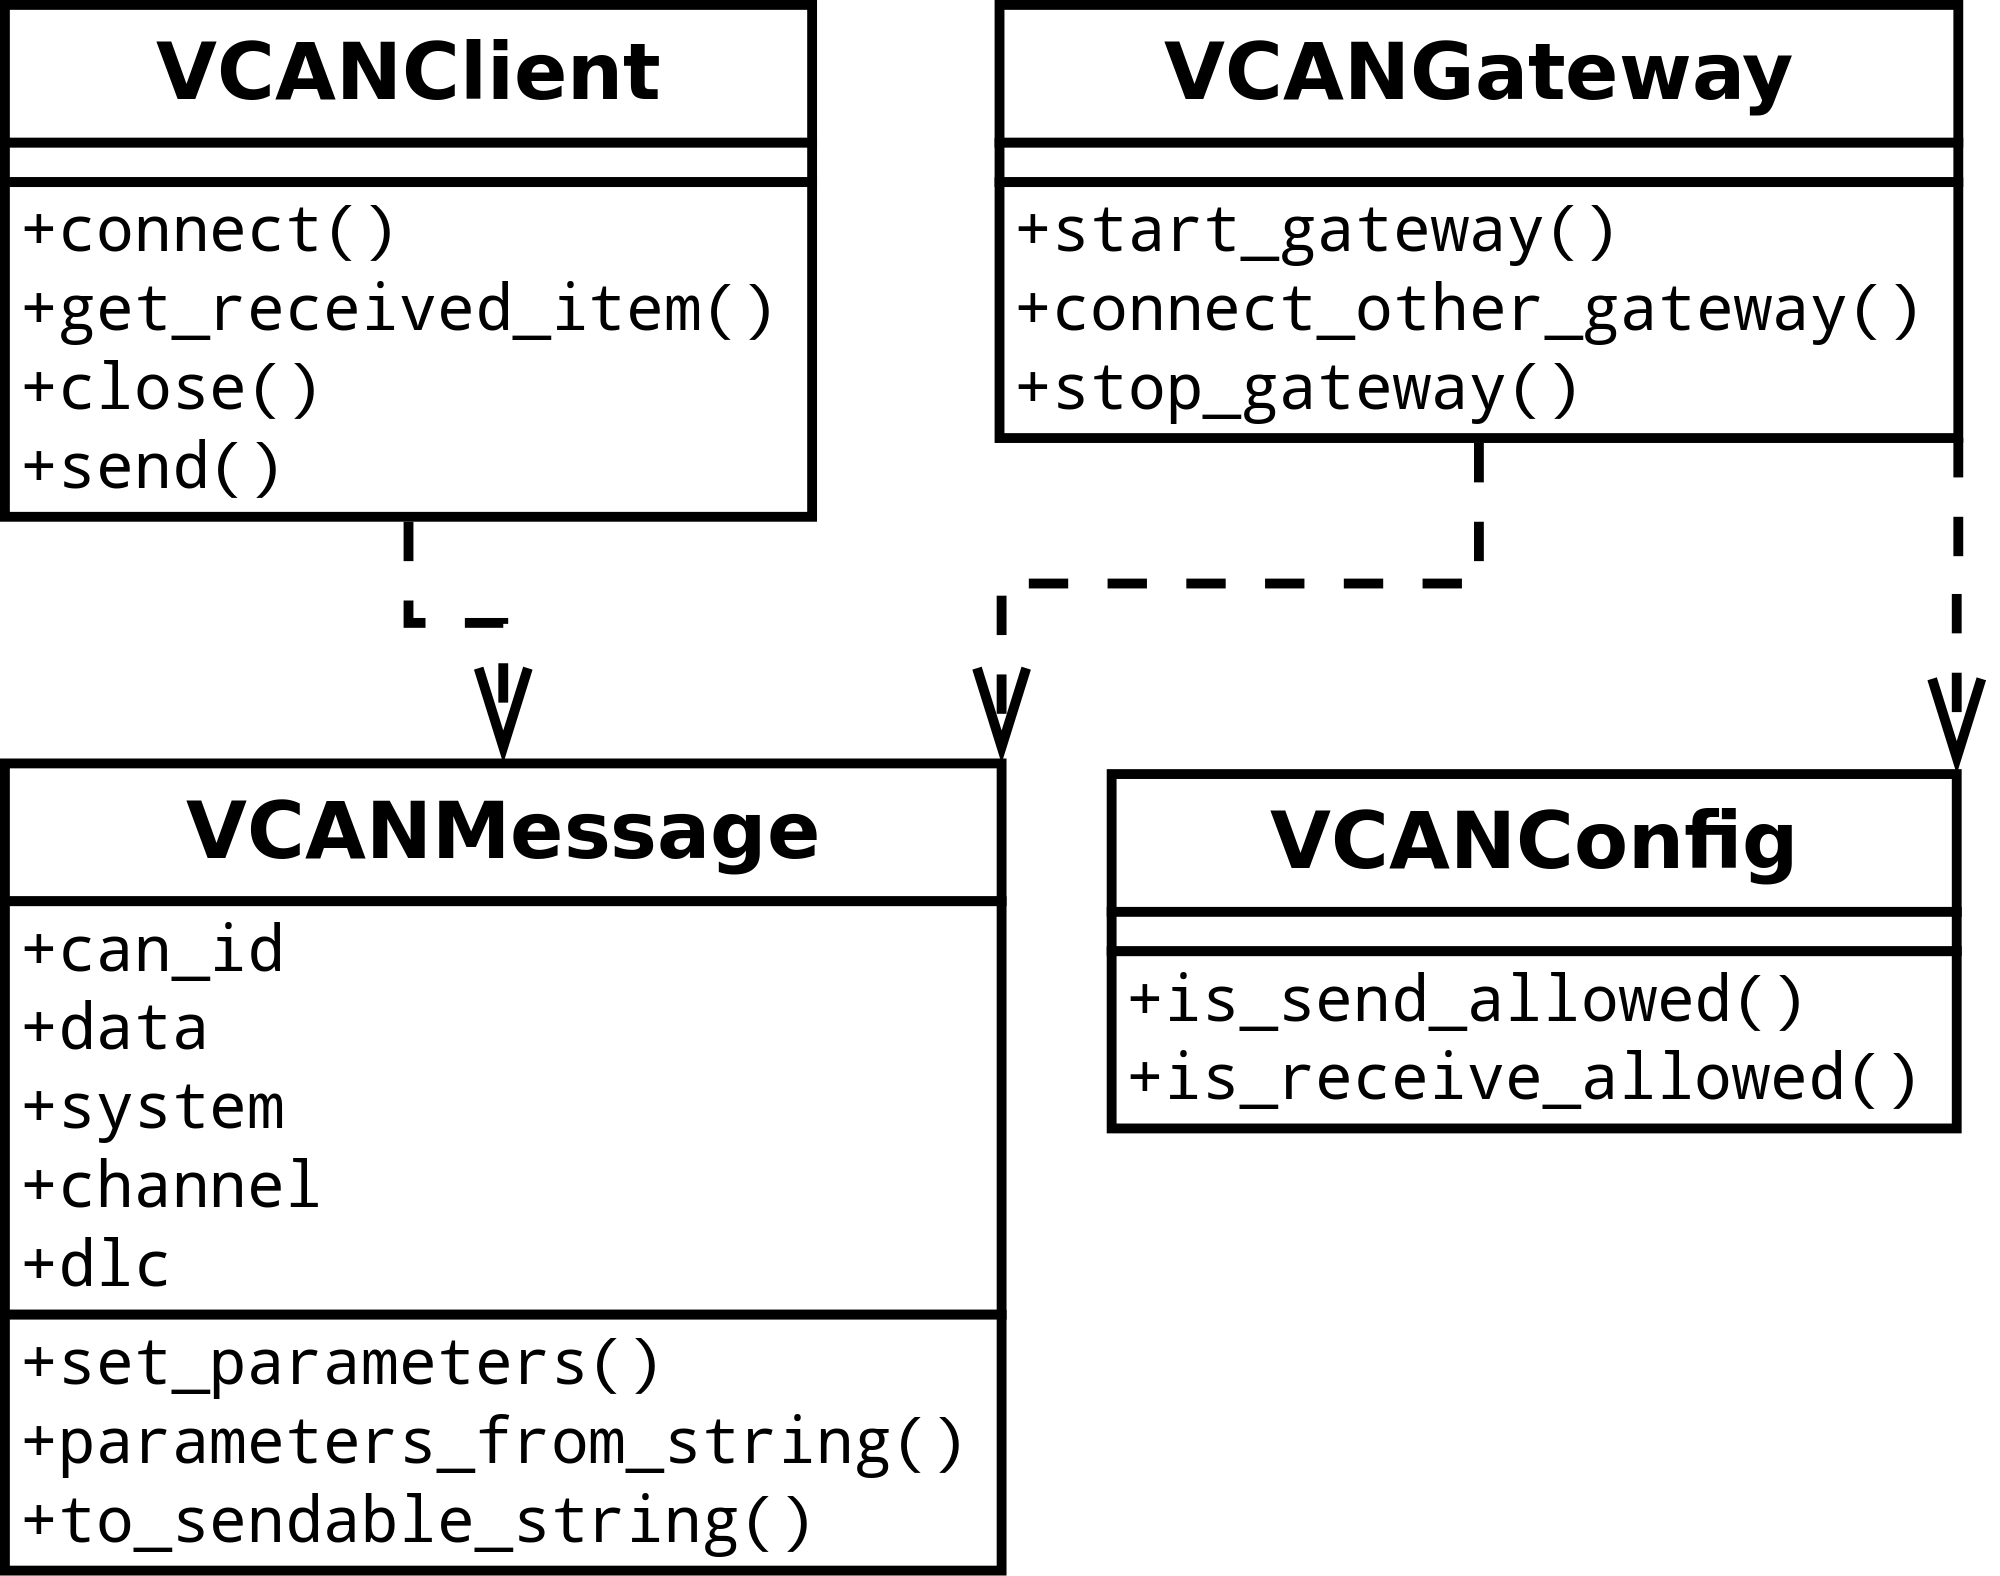
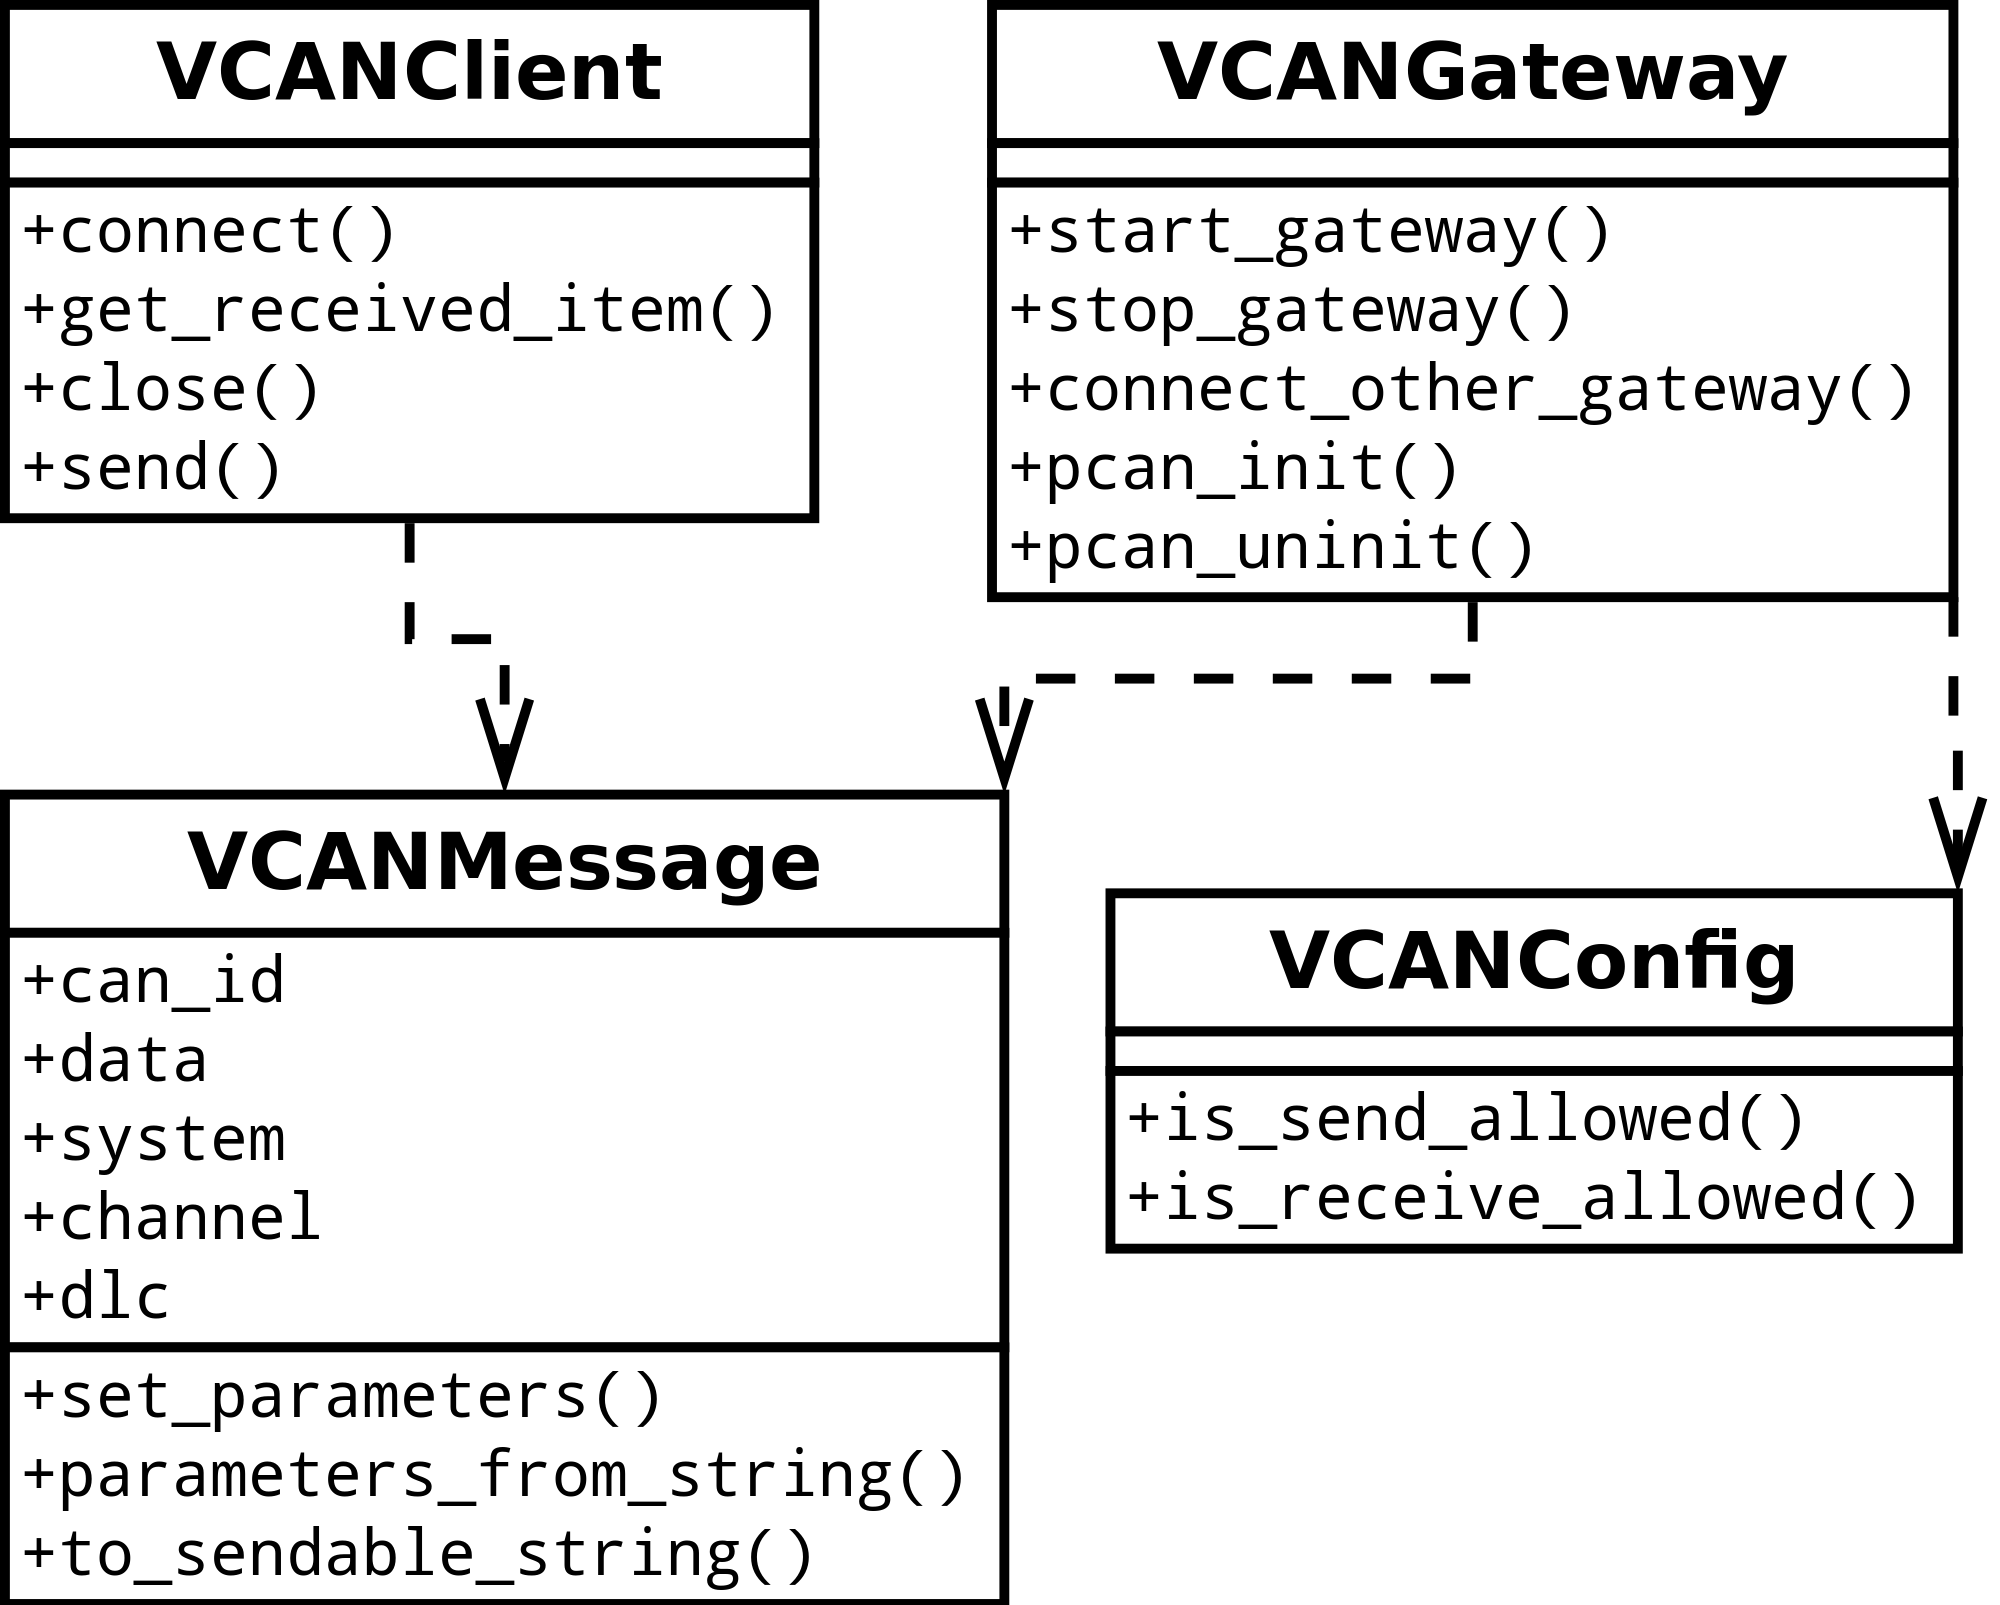
Various stuff

diff --git a/Master_Thesis/appendix.tex b/Master_Thesis/appendix.tex
@@ -209,7 +209,7 @@ Das VCAN-Protokoll besteht aus einem Binär-Format, dass per TCP-Socket übertra
 Das eigentliche Binär-Format des Protokolls ist in Abbildung \ref{fig:vcan_protokoll} zu sehen. Das Format besteht aus einem Header, dem DLC-Feld und den eigentlichen Daten. Der Header enthält unter anderem die ID der Botschaft. Die Nutzdaten können 1 bis 8 Byte lang sein. Im folgenden ist eine ausfürliche Auflistung der Felder dargestellt. Die Byte-Reheinfolge entspricht Big-Endian. Tabelle \ref{tab:vcanbotschaft} zeigt eine Beispiel-Botschaft ohne TCP- und Ethernet-Header.
 
 \begin{description}
-    \item[System] \hfill \\ Angabe eines Systems (zum Beispiel CAN oder LIN). Eine Auflistung der möglichen Werte ist in Tabelle \ref{tab:vcansysteme} zu finden. Die symbolischen Namen stammen dabei aus dem Elektrobit Gateway
+    \item[System] \hfill \\ Angabe eines Systems (zum Beispiel CAN oder LIN). Eine Auflistung der möglichen Werte ist in Tabelle \ref{tab:vcansysteme} zu finden. Die symbolischen Namen stammen dabei aus dem Elektrobit Gateway. Höhere Werte führen beim EB Gateway zu Fehlern beziehungsweise Abstürzen.
     \item[Channel] \hfill \\ Enthält eine Kanal-Nummer. Kann Werte von 0 bis 255 annehmen.
     \item[ID] \hfill \\ CAN-ID der Botschaft.
     \item[Marker] \hfill \\ Markiert extended CAN Frames. 0 steht für einen standard frame, jeder andere Wert für ein extendend Frame. Dies Byte könnte weitere Funktionalität bei LIN oder FlexRay Systemen haben.
@@ -218,55 +218,58 @@ Das eigentliche Binär-Format des Protokolls ist in Abbildung \ref{fig:vcan_prot
 \end{description}
 
 \begin{table}[ht]
-    \center
-    \begin{tabular}[h]{c l}
-        Hex Wert & Symbolischer Name \\
-        \toprule
-        0 & Unknown\\
-        1 & Flexray1\\
-        2 & Flexray2\\
-        3 & CAN1\\
-        4 & CAN2\\
-        5 & CAN3\\
-        6 & CAN4\\
-        7 & LIN1\\
-        8 & LIN2\\
-        9 & bad allocation\\
-        a & æI@\\
-        b & <null>\\
-        \bottomrule
-    \end{tabular}
-    \caption{Liste der VCAN Systeme}
-    \label{tab:vcansysteme}
-\end{table}
-
-\begin{table}[ht]
-    \center
-    \begin{tabular}[h]{c l}
-        Hex Wert & Bedeutung \\
-        \toprule
-        03 & System: CAN1\\
-        \midrule
-        00 & Channel: 0\\
-        \midrule
-        42 & \multirow{4}{*}{CAN-ID (hex): 742}\\
-        07 & \\
-        00 & \\
-        00 & \\
-        \midrule
-        00 & Standard Frame\\
-        \midrule
-        04 & \multirow{2}{*}{DLC: 4 Bytes}\\
-        00 & \\
-        \midrule
-        00 & \multirow{4}{*}{Daten: 00:00:2A:00}\\
-        00 & \\
-        2a & \\
-        00 & \\
-        \bottomrule
-    \end{tabular}
-    \caption{Beispiel VCAN Botschaft}
-    \label{tab:vcanbotschaft}
+    \centering
+    \begin{minipage}{0.45\textwidth}		
+        \begin{tabular}[h]{c l}
+            Hex Wert & Symbolischer Name \\
+            \toprule
+            0 & Unknown\\
+            1 & Flexray1\\
+            2 & Flexray2\\
+            3 & CAN1\\
+            4 & CAN2\\
+            5 & CAN3\\
+            6 & CAN4\\
+            7 & LIN1\\
+            8 & LIN2\\
+            9 & bad allocation\\
+            a & æI@\\
+            b & <null>\\
+            c & Fehler\\
+            d & Fehler\\
+            \dots & \dots\\
+            \bottomrule
+        \end{tabular}
+        \caption{Liste der VCAN Systeme}
+        \label{tab:vcansysteme}
+    \end{minipage}\hfill
+    \begin{minipage}{0.45\textwidth}
+        \begin{tabular}[h]{c l}
+            Hex Wert & Bedeutung \\
+            \toprule
+            03 & System: CAN1\\
+            \midrule
+            00 & Channel: 0\\
+            \midrule
+            42 & \multirow{4}{*}{CAN-ID (hex): 742}\\
+            07 & \\
+            00 & \\
+            00 & \\
+            \midrule
+            00 & Standard Frame\\
+            \midrule
+            04 & \multirow{2}{*}{DLC: 4 Bytes}\\
+            00 & \\
+            \midrule
+            00 & \multirow{4}{*}{Daten: 00:00:2A:00}\\
+            00 & \\
+            2a & \\
+            00 & \\
+            \bottomrule
+        \end{tabular}
+        \caption{Beispiel VCAN Botschaft}
+        \label{tab:vcanbotschaft}
+    \end{minipage}
 \end{table}
 
 Das Protokoll, wie es im Elektrobit-Gateway eingesetzt wird, hat einige Besonderheiten. So werden gelegentlich die Daten-Bytes mehrerer Botschaften angehängt. Hierbei wird der Header nur einmal, jedoch die Daten mehrerer Botschaften übermittelt. Auch wird zeitweise der Daten-Bereich einer Botschaft mehrfach angehängt. Das Verhalten konnte nicht zuverlässig nachvollzogen werden. Es hat jedoch den Anschein, dass diese Probleme durch eine hohe Netzwerk-Last beziehungsweise -Latenz hervorgerufen werden. Da nicht eindeutig eine Mehrfachsendung einer Botschaft von verschiedene Botschaften in einem Paket unterschieden werden kann, wurde dieses Verhalten nicht implementiert. 
@@ -405,11 +408,122 @@ Im folgenden wird die Dateistruktur des Projektes näher betrachtet. Abbildung \
 
 \section{Beispiel Anwendungen}
 \label{sec:vcan_beispiele}
+Im Folgenden sind einige Beispiel Anwendungen aufgeführt, die den VCAN nutzen. Da der Quellcode weitreichend selbsterklärend ist, wird auf eine Erläuterung der Beispiele verzichtet.
 
+\subsection{Gateway}
+\label{sec:vcan_gateway_beispiele}
+\begin{lstlisting}[frame=single, language=Python, basicstyle=\footnotesize, caption={Einfaches Gateway}, label={lst:bsp_gateway1}]
+import vcan_api
 
+gw = vcan_api.VCANGateway()
+gw.start_gateway(host='127.0.0.1', port=10020)
+raw_input("Press key to stop...\n")
+gw.stop_gateway()
+\end{lstlisting}
 
+\begin{lstlisting}[frame=single, language=Python, basicstyle=\footnotesize, caption={Gateway mit Callbacks}, label={lst:bsp_gateway2}]
+import vcan_api
 
+def __message_callback(message):
+  print message
 
+def __connection_callback(connection, accepting):
+  if accepting == True:
+    print "Connection accepted: " + str(connection)
+  else:
+    print "Connection closed: " + str(connection)
+
+gw = vcan_api.VCANGateway(receive_callback=__message_callback, connection_callback=__connection_callback)
+gw.start_gateway(host='127.0.0.1', port=10020)
+raw_input("Press key to stop...\n")
+gw.stop_gateway()
+\end{lstlisting}
+
+\begin{lstlisting}[frame=single, language=Python, basicstyle=\footnotesize, caption={Gateway mit PCAN-Anbindung}, label={lst:bsp_gateway3}]
+import vcan_api
+
+gw = vcan_api.VCANGateway()
+gw.start_gateway(host='127.0.0.1', port=10020)
+gw.pcan_init()
+raw_input("Press key to stop...\n")
+gw.pcan_uninit()
+gw.stop_gateway()
+\end{lstlisting}
+
+\begin{lstlisting}[frame=single, language=Python, basicstyle=\footnotesize, caption={Gateway mit Verbindung zu anderem Gateway}, label={lst:bsp_gateway4}]
+import vcan_api
+
+gw = vcan_api.VCANGateway()
+gw.start_gateway(host='127.0.0.1', port=10020)
+try:
+  gw.connect_other_gateway('141.41.31.148', port=10020)
+except vcan_api.VCANException:
+  print "Could not connect to other gateway!"
+raw_input("Press key to stop...\n")
+gw.stop_gateway()
+\end{lstlisting}
+
+\subsection{Client Beispiele}
+\label{sec:vcan_client_beispiele}
+\begin{lstlisting}[frame=single, language=Python, basicstyle=\footnotesize, caption={Empfangsclient via Callback}, label={lst:bsp_client1}]
+import time
+import vcan_api
+
+def __receive_message(message):
+  m = vcan_api.VCANMessage()
+  m.parameters_from_string(message)
+  print m
+
+client = vcan_api.VCANClient()
+client.connect('127.0.0.1', port=10020, callback=__receive_message)
+
+while True:
+  time.sleep(0.5)
+
+client.close()
+\end{lstlisting}
+
+\begin{lstlisting}[frame=single, language=Python, basicstyle=\footnotesize, caption={Empfangsclient via Polling}, label={lst:bsp_client2}]
+import time
+import vcan_api
+
+client = vcan_api.VCANClient()
+client.connect('127.0.0.1', port=10020)
+
+while True:
+  time.sleep(0.1)
+  message = client.get_received_item()
+  if message == None:
+    continue
+  m = vcan_api.VCANMessage()
+  m.parameters_from_string(message)
+  print m
+
+client.close()
+\end{lstlisting}
+
+\begin{lstlisting}[frame=single, language=Python, basicstyle=\footnotesize, caption={Zyklisch sendender Client via Threads}, label={lst:bsp_client3}]
+import thread
+import time
+import vcan_api
+
+def __send(client, value):
+  while (True):
+    print "sending..."
+    data = [0,0,1,value,0,0,0,0]
+    m = vcan_api.VCANMessage()
+    m.set_parameters(int("3c0", 16),  data)
+    sclient.send(m,sleep_time=0.5)
+
+client = vcan_api.VCANClient()
+client.connect('127.0.0.1', port=10020)
+
+value = 42
+thread.start_new_thread(__send, (client, value,))
+
+raw_input("Press key to exit...\n")
+client.close()
+\end{lstlisting}
 
 
 

diff --git a/Master_Thesis/MasterThesis.tex b/Master_Thesis/MasterThesis.tex
@@ -1017,8 +1017,7 @@ Anschließend wird in einem Kapitel eine Restbussimulation von VW näher betrach
 \label{sec:Aufbau_der_ECU}
 Bereits 2011 wurde im Rahmen einer Bachelorarbeit ein Versuchsaufbau zur Ansteuerung von Front-Scheinwerfern erstellt. Dieser Aufbau Bestand aus einem älteren Bordnetzsteuergerät der PQ35 Reihe. Dieses verwendet einen Low-Speed-CAN Bus und ein altes Netzwerkmanagement. Dieses NM wird von EB tresos jedoch nicht unterstützt. Aus diesem Grund wurde im Rahmen dieses Projektes ein neues Bordnetzsteuergerät, im weiteren BCM genannt, aufgebaut und getestet. Im Anhang dieser Arbeit (siehe \ref{sec:ecu}) befindet sich eine Dokumentation des Aufbaus und des Bordnetzsteuergerätes.
 
-% TODO: kbit oder kbaud?!
-Die Ansteuerung des BCM erfolgt pre CAN mit einer Baudrate von 500 kbaud. Der am Versuchsaufbau angebrachte Schalter stellt die Klemme 15 sowie Klemme S dar. In diesem Aufbau sind diese Signale nicht getrennt und werden somit immer gleich geschaltet.
+Die Ansteuerung des BCM erfolgt pre CAN mit einer Baudrate von 500 kbit/s. Der am Versuchsaufbau angebrachte Schalter stellt die Klemme 15 sowie Klemme S dar. In diesem Aufbau sind diese Signale nicht getrennt und werden somit immer gleich geschaltet.
 
 
 
@@ -1119,6 +1118,7 @@ Das gesamte System Modell ist in Abbildung \ref{fig:smls_modell} zu sehen. Auf d
 Auch die nötige CAN-Datenbank in Form einer .dbc-Datei entspricht dem Modell. Hier sind die ECUs und Botschaften ebenfalls nachgebildet. Ein besonderes Augenmerk ist dabei auf das Layout der Signale innerhalb der Botschaften zu legen. Sowohl die .dbc-Datei, als auch das SystemDesk Projekt, sowie die daraus resultierende .arxml-Datei sind auf der beigelegten CD zu finden.
 
 % TODO: tresos; Was war einzurichten...
+
 
 \begin{lstlisting}[frame=single, language=C, basicstyle=\footnotesize, caption={Implementation der Runnable}, label={lst:headlight_final}]
 void SWC_SMLS_R_SMLS (void) {
@@ -1243,17 +1243,16 @@ Das in Abbildung \ref{fig:vcan_app_control} zu sehende Fenster, bietet direkten 
     \begin{subfigure}[b]{0.49\textwidth}
         \centering
         \includegraphics[width=\textwidth]{boxplot_as}
-        \caption{}
+        \caption{Timing AUTOSAR}
         \label{fig:boxplot_as}
     \end{subfigure}
-%    \qquad
     \begin{subfigure}[b]{0.49\textwidth}
         \centering
         \includegraphics[width=\textwidth]{boxplot_vcan}
-        \caption{}
+        \caption{Timing VCAN-API}
         \label{fig:boxplot_vcan}
     \end{subfigure}
-    \caption{Timinganalyse des VCAN}
+    \caption{Timinganalyse des VCAN als Boxplot}
     \label{fig:timinganalyse}
 \end{figure}
 
